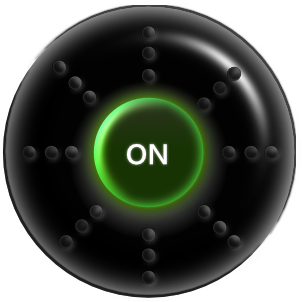
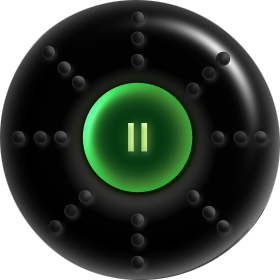
beta1

diff --git a/arpwiremediacenter/src/App.js b/arpwiremediacenter/src/App.js
@@ -11,6 +11,9 @@ function App() {
   const [volume, setVolume] = useState(1); // Volume state (range 0-1)
   const mediaRef = useRef(null);
   const progressRef = useRef(null); // Reference to the progress bar
+  const [pressedButton, setPressedButton] = useState(null);
+  const [shouldScroll, setShouldScroll] = useState(false);
+  const fileNameRef = useRef(null);
 
   useEffect(() => {
     const importMediaFiles = async () => {
@@ -123,6 +126,26 @@ function App() {
     }
   }, [currentIndex]);
 
+  const handleButtonClick = (buttonId) => {
+    setPressedButton(buttonId);
+  };
+
+  useEffect(() => {
+    const checkOverflow = () => {
+      if (fileNameRef.current) {
+        const isOverflowing = fileNameRef.current.scrollWidth > fileNameRef.current.clientWidth;
+        setShouldScroll(isOverflowing);
+      }
+    };
+
+    checkOverflow();
+    window.addEventListener('resize', checkOverflow);
+    
+    return () => {
+      window.removeEventListener('resize', checkOverflow);
+    };
+  }, [files, currentIndex]); // Changed dependency to files and currentIndex
+
   if (files.length === 0) return <div className="app">Loading media files...</div>;
 
   const currentFile = files[currentIndex];
@@ -139,29 +162,109 @@ function App() {
           <img id={'screen'} src="/media player components/screen.png" alt="Next" style={{ position: 'absolute'}} />
     
 
-          <img id="button1" className="navbuttons" src="/media player components/1-2.png" alt="Button Image" />
-          <img id="button2" className="navbuttons" src="/media player components/2-2.png" alt="Button Image" />
-          <img id="button3" className="navbuttons" src="/media player components/3-2.png" alt="Button Image" />
-          <img id="button4" className="navbuttons" src="/media player components/4-2.png" alt="Button Image" />
-          <img id="button5" className="navbuttons" src="/media player components/5-2.png" alt="Button Image" />
-          <img id="button6" className="navbuttons" src="/media player components/6-2.png" alt="Button Image" />
+          <img 
+            id="button1" 
+            className={`navbuttons ${pressedButton === 'button1' ? 'active' : ''}`} 
+            src="/media player components/1-2.png" 
+            alt="Button Image" 
+            onClick={() => handleButtonClick('button1')}
+          />
+          <img 
+            id="button2" 
+            className={`navbuttons ${pressedButton === 'button2' ? 'active' : ''}`} 
+            src="/media player components/2-2.png" 
+            alt="Button Image" 
+            onClick={() => handleButtonClick('button2')}
+          />
+          <img 
+            id="button3" 
+            className={`navbuttons ${pressedButton === 'button3' ? 'active' : ''}`} 
+            src="/media player components/3-2.png" 
+            alt="Button Image" 
+            onClick={() => handleButtonClick('button3')}
+          />
+          <img 
+            id="button4" 
+            className={`navbuttons ${pressedButton === 'button4' ? 'active' : ''}`} 
+            src="/media player components/4-2.png" 
+            alt="Button Image" 
+            onClick={() => handleButtonClick('button4')}
+          />
+          <img 
+            id="button5" 
+            className={`navbuttons ${pressedButton === 'button5' ? 'active' : ''}`} 
+            src="/media player components/5-2.png" 
+            alt="Button Image" 
+            onClick={() => handleButtonClick('button5')}
+          />
+          <img 
+            id="button6" 
+            className={`navbuttons ${pressedButton === 'button6' ? 'active' : ''}`} 
+            src="/media player components/6-2.png" 
+            alt="Button Image" 
+            onClick={() => handleButtonClick('button6')}
+          />
 
-          <img id="aud" className="navbuttons" src="/media player components/aud-2.png" alt="Button Image" />
-          <img id="dsc" className="navbuttons" src="/media player components/dsc-2.png" alt="Button Image" />
+          <img 
+            id="aud" 
+            className="navbuttons"
+            src="/media player components/aud-2.png" 
+            alt="Button Image" 
+            onClick={() => handleButtonClick('aud')}
+          />
+          <img 
+            id="dsc" 
+            className="navbuttons"
+            src="/media player components/dsc-2.png" 
+            alt="Button Image" 
+            onClick={() => handleButtonClick('dsc')}
+          />
 
-          <img id="clock" className="navbuttons" src="/media player components/clock-2.png" alt="Button Image" />
-          <img id="ba" className="navbuttons" src="/media player components/ba-2.png" alt="Button Image" />
-          <img id="rel" className="navbuttons" src="/media player components/rel-2.png" alt="Button Image" />
+          <img 
+            id="clock" 
+            className="navbuttons"
+            src="/media player components/clock-2.png" 
+            alt="Button Image" 
+            onClick={() => handleButtonClick('clock')}
+          />
+          <img 
+            id="ba" 
+            className="navbuttons"
+            src="/media player components/ba-2.png" 
+            alt="Button Image" 
+            onClick={() => handleButtonClick('ba')}
+          />
+          <img 
+            id="rel" 
+            className="navbuttons"
+            src="/media player components/rel-2.png" 
+            alt="Button Image" 
+            onClick={() => handleButtonClick('rel')}
+          />
 
-          <img id="on" className="roundButtons" src="/media player components/on.png" alt="Button Image" />
+        <img 
+          id="on" 
+          className="roundButtons" 
+          onClick={togglePlayPause} 
+          src={isPlaying ? "/media player components/on.png" : "/media player components/play.png"} 
+          alt={isPlaying ? "Play Button" : "Pause Button"} 
+        />
 
-          <img id="skipL" className="skipButtons" onClick={prevTrack} src="/media player components/skipL.png" alt="Button Image" />
-          <img id="skipR" className="skipButtons" onClick={nextTrack} src="/media player components/skipR.png" alt="Button Image" />
-          <img id="topS" className="skipButtons" src="/media player components/topS.png" alt="Button Image" />
-          <img id="bottomS" className="skipButtons" src="/media player components/bottomS.png" alt="Button Image" />
+          <img id="skipL" className="skipButtons" onClick={prevTrack} src="/media player components/skipL.png" alt="Button Image" style={{ pointerEvents: 'none' }} />
+          <div className="skipButton-mask skipL-mask" onClick={prevTrack}></div>
+          
+          <img id="skipR" className="skipButtons" onClick={nextTrack} src="/media player components/skipR.png" alt="Button Image" style={{ pointerEvents: 'none' }} />
+          <div className="skipButton-mask skipR-mask" onClick={nextTrack}></div>
+          
+          <img id="topS" className="skipButtons" src="/media player components/topS.png" alt="Button Image" style={{ pointerEvents: 'none' }} />
+          <div className="skipButton-mask topS-mask"></div>
+          
+          <img id="bottomS" className="skipButtons" src="/media player components/bottomS.png" alt="Button Image" style={{ pointerEvents: 'none' }} />
+          <div className="skipButton-mask bottomS-mask"></div>
 
-
-          <p className="file-name">{currentFile.name}</p>
+          <p className={`file-name ${shouldScroll ? 'scroll' : ''}`} ref={fileNameRef}>
+            <span>{currentFile.name}</span>
+          </p>
           {currentFile.type.startsWith("video") ? (
               <video ref={mediaRef} src={currentFile.src} className="video" onClick={togglePlayPause} />
           ) : (

diff --git a/arpwiremediacenter/src/App.css b/arpwiremediacenter/src/App.css
@@ -40,20 +40,32 @@
   border-radius: 5px;
   position: absolute;
   top: 30%;
-  width: 100%;
+  width: 215px;
+  height: 40px;
   z-index: 2;
   font-family: "Courier New", Courier, monospace;
-  font-size: 30px;
-
+  font-size: clamp(12px, 5vw, 30px);
+  overflow: hidden;
+  white-space: nowrap;
 }
 
+.file-name span {
+  display: inline-block;
+  padding-left: 100%;
+}
 
+.file-name.scroll span {
+  animation: scrollText 10s linear infinite;
+}
 
-
-
-
-
-
+@keyframes scrollText {
+  0% {
+    transform: translateX(0%);
+  }
+  100% {
+    transform: translateX(-150%);
+  }
+}
 
 /* Video styling with locked size */
 .video {
@@ -86,8 +98,6 @@
   width: 100%;
   margin-bottom: 10px;
 }
-
-
 
 /* Skip button styling */
 .skip {
@@ -200,7 +210,7 @@
   z-index: 1;
 }
 
-.navbuttons{
+.navbuttons {
   scale: .45;
   z-index: 5;
   position: fixed;
@@ -210,16 +220,22 @@
     -10px -10px 15px rgba(255, 255, 255, 0.479);
   border-radius: 100%;
   border: 1px solid black;
-  transition: .25s;
+  transition: .1s;
+  cursor: pointer;
+  filter: brightness(100%);
 }
 
-.navbuttons:hover{
+.navbuttons.active {
+  box-shadow: inset 0 0 0 20px rgb(26, 26, 26),
+    -5px -5px 10px rgba(0, 0, 0, 0.808),
+    10px 10px 15px rgba(255, 255, 255, 0.479);
+}
+
+/* .navbuttons:hover {
   box-shadow: inset 0 0 0 5px rgb(26, 26, 26),
     5px 5px 10px rgba(0, 0, 0, 0.616),
     -10px -10px 15px rgba(255, 255, 255, 0.295);
-}
-
-
+} */
 
 #button1{
   bottom: 20px;
@@ -286,12 +302,8 @@
   left: 0px;
 }
 
-
-
-
-
 .roundButtons {
-  scale: .50;
+  scale: .53;
   z-index: 5;
   position: fixed;
   background: solid black;
@@ -299,13 +311,13 @@
   border-radius: 100%;
   border: 1px solid black;
   transition: .25s;
+  cursor: pointer;
 }
 
 #on{
-  bottom: -15px;
-  left: -30px;
+  bottom: -5px;
+  left: -18px;
 }
-
 
 .skipButtons {
   scale: .50;
@@ -313,13 +325,13 @@
   position: fixed;
   background: solid black;
   transition: .25s;
+  pointer-events: none;
+  cursor: pointer;
 }
 
 .skipButtons:hover {
   box-shadow: 0 0 10px #00f, 0 0 20px #00f;
 }
-
-
 
 #skipL{
   bottom: 55px;
@@ -339,4 +351,35 @@
 #bottomS{
   bottom: 32px;
   right: 1px;
+}
+
+.skipButton-mask {
+  position: fixed;
+  z-index: 10;
+  width: 50px;
+  height: 50px;
+  cursor: pointer;
+}
+
+.skipL-mask {
+  bottom: 110px;
+  right: 155px;
+  clip-path: polygon(25% 50%, 100% 25%, 100% 75%);
+}
+
+.skipR-mask {
+  bottom: 110px;
+  right: 40px;
+  clip-path: polygon(0% 25%, 75% 50%, 0% 75%);
+}
+.topS-mask {
+  bottom: 155px;
+  right: 97px;
+  clip-path: circle(50% at 50% 50%);
+}
+
+.bottomS-mask {
+  bottom: 75px;
+  right: 97px;
+  clip-path: circle(50% at 50% 50%);
 }
